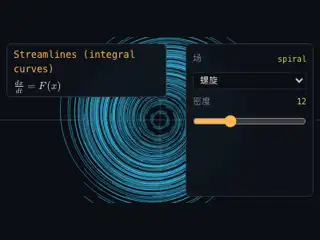
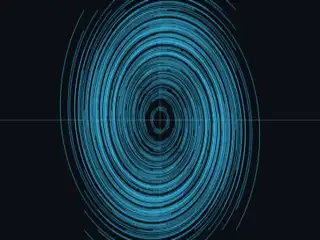
feat: collapsible domain sections + clean thumbs
- Each domain section has a ▾/▸ caret to collapse/expand;
  state persisted in localStorage
- Section label still navigates into domain filter on click
- Thumbnail regen with UI panels hidden during capture
  (no more parameter sliders bleeding into thumbs)

diff --git a/src/main-index.ts b/src/main-index.ts
@@ -271,16 +271,24 @@ function renderGrid() {
       renderFilters(); renderBreadcrumbs(); syncURL();
       window.scrollTo({ top: 0, behavior: 'smooth' });
     };
+    let collapsed: Set<string>;
+    try { collapsed = new Set(JSON.parse(localStorage.getItem('mathlet:collapsed') ?? '[]')); }
+    catch { collapsed = new Set(); }
+    const persist = () => localStorage.setItem('mathlet:collapsed', JSON.stringify([...collapsed]));
+
     for (const [dom, list] of byDomain) {
-      const h = el('h2', { class: 'section-h section-h-link' }) as HTMLHeadingElement;
-      h.setAttribute('role', 'button');
-      h.setAttribute('tabindex', '0');
-      h.appendChild(el('span', {}, labels[dom as keyof typeof labels]));
-      h.appendChild(el('span', { class: 'section-count' }, ` (${list.length})`));
-      h.onclick = () => goDomain(dom);
-      h.onkeydown = (ev) => { if (ev.key === 'Enter' || ev.key === ' ') { ev.preventDefault(); goDomain(dom); } };
+      const h = el('h2', { class: 'section-h' }) as HTMLHeadingElement;
+      const caret = el('button', { class: 'section-caret', 'aria-label': 'toggle' }, collapsed.has(dom) ? '▸' : '▾') as HTMLButtonElement;
+      h.appendChild(caret);
+      const label = el('span', { class: 'section-label', role: 'button', tabindex: '0' }) as HTMLElement;
+      label.appendChild(el('span', {}, labels[dom as keyof typeof labels]));
+      label.appendChild(el('span', { class: 'section-count' }, ` (${list.length})`));
+      label.onclick = () => goDomain(dom);
+      label.onkeydown = (ev) => { if (ev.key === 'Enter' || ev.key === ' ') { ev.preventDefault(); goDomain(dom); } };
+      h.appendChild(label);
       root.appendChild(h);
-      const row = el('div', { class: 'grid-row' });
+
+      const row = el('div', { class: 'grid-row' + (collapsed.has(dom) ? ' collapsed' : '') });
       const visible = list.slice(0, PER_SECTION);
       for (const e of visible) row.appendChild(makeCard(e));
       if (list.length > PER_SECTION) {
@@ -290,6 +298,12 @@ function renderGrid() {
         row.appendChild(more);
       }
       root.appendChild(row);
+
+      caret.onclick = () => {
+        if (collapsed.has(dom)) { collapsed.delete(dom); row.classList.remove('collapsed'); caret.textContent = '▾'; }
+        else { collapsed.add(dom); row.classList.add('collapsed'); caret.textContent = '▸'; }
+        persist();
+      };
     }
     return;
   }

diff --git a/src/styles/theme.css b/src/styles/theme.css
@@ -139,6 +139,17 @@ code, kbd, .mono { font-family: var(--mono); }
 .section-h-link { cursor: pointer; transition: color 0.12s, border-color 0.12s; }
 .section-h-link:hover { color: var(--accent); border-bottom-color: var(--accent); }
 .section-h-link:focus-visible { outline: 2px solid var(--accent); outline-offset: 2px; }
+.section-h { display: flex; align-items: center; gap: 8px; }
+.section-caret {
+  background: transparent; border: 0; color: var(--fg-dim);
+  font-size: 12px; cursor: pointer; padding: 0 4px;
+  font-family: inherit;
+}
+.section-caret:hover { color: var(--accent); }
+.section-label { cursor: pointer; transition: color 0.12s; flex: 1; }
+.section-label:hover { color: var(--accent); }
+.section-label:focus-visible { outline: 2px solid var(--accent); outline-offset: 2px; }
+.grid-row.collapsed { display: none; }
 .random-btn {
   background: transparent;
   border: 1px solid var(--border-strong);
